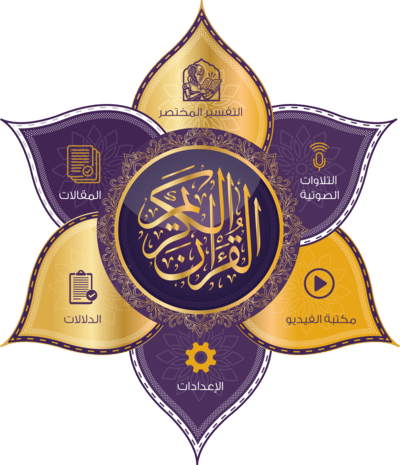
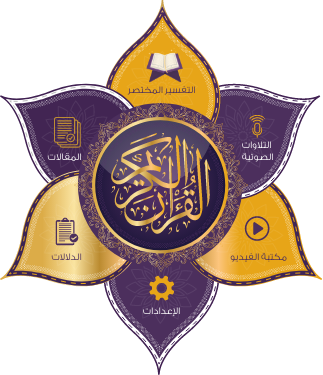
Refactor intro screen layout and navigation, streamline gesture handling, and clean up commented code

diff --git a/lib/ui/intro_screen.dart b/lib/ui/intro_screen.dart
@@ -3,13 +3,11 @@ import 'package:dlalat_quaran_new/controllers/similar_word_controller.dart';
 import 'package:dlalat_quaran_new/ui/add_research.dart';
 import 'package:dlalat_quaran_new/ui/articles_screen/articles_screen.dart';
 import 'package:dlalat_quaran_new/ui/chat/chat_screen.dart';
-import 'package:dlalat_quaran_new/ui/competition_screen.dart';
 import 'package:dlalat_quaran_new/ui/home_sura_screen.dart';
 import 'package:dlalat_quaran_new/ui/read_full_sura_screen/read_full_sura_screen.dart';
 import 'package:dlalat_quaran_new/ui/setting_screen.dart';
 import 'package:dlalat_quaran_new/ui/tags_screen/tags_screen.dart';
 import 'package:dlalat_quaran_new/ui/video_screen/videos_screen.dart';
-import 'package:dlalat_quaran_new/utils/assets.dart';
 import 'package:dlalat_quaran_new/utils/constants.dart';
 import 'package:dlalat_quaran_new/utils/text_styles.dart';
 import 'package:dlalat_quaran_new/widgets/splash_background.dart';
@@ -58,20 +56,12 @@ class _IntroScreenState extends State<IntroScreen> {
                     'app_name'.tr,
                     // '',
                     textAlign: TextAlign.center,
-                    style: TextStyle(
-                      color: Colors.white,
-                      fontSize: scHeight / 40,
-                      fontFamily: 'Almarai',
-                    ),
+                    style: TextStyle(color: Colors.white, fontSize: scHeight / 40, fontFamily: 'Almarai'),
                   ),
                   const SizedBox(height: 8),
                   Text(
                     'introText'.tr,
-                    style: TextStyle(
-                      color: const Color(0xFFF5B45E),
-                      fontSize: scHeight / 70,
-                      fontFamily: 'Almarai',
-                    ),
+                    style: TextStyle(color: const Color(0xFFF5B45E), fontSize: scHeight / 70, fontFamily: 'Almarai'),
                     textAlign: TextAlign.center,
                   ),
                   SizedBox(height: 70),
@@ -89,7 +79,8 @@ class _IntroScreenState extends State<IntroScreen> {
                             height: itemSize - 20,
                             child: GestureDetector(
                               onTap: () {
-                                Get.toNamed(ChatScreen.id);
+                                // Get.toNamed(ChatScreen.id);
+                                Get.toNamed(HomeSuraScreen.id);
                               },
                             ),
                           ),
@@ -120,9 +111,8 @@ class _IntroScreenState extends State<IntroScreen> {
                             child: GestureDetector(
                               // onTap: () => Get.to(const TagsScreen()),
                               onTap:
-                                  () => Navigator.of(
-                                    context,
-                                  ).push(MaterialPageRoute(builder: (_) => const TagsScreen())),
+                                  () =>
+                                      Navigator.of(context).push(MaterialPageRoute(builder: (_) => const TagsScreen())),
                             ),
                           ),
                         ),
@@ -136,9 +126,7 @@ class _IntroScreenState extends State<IntroScreen> {
                             child: GestureDetector(
                               // onTap: () => Get.to(SettingScreen()),
                               onTap:
-                                  () => Navigator.of(
-                                    context,
-                                  ).push(MaterialPageRoute(builder: (_) => SettingScreen())),
+                                  () => Navigator.of(context).push(MaterialPageRoute(builder: (_) => SettingScreen())),
                             ),
                           ),
                         ),
@@ -188,7 +176,7 @@ class _IntroScreenState extends State<IntroScreen> {
                             height: itemSize - 20,
                             child: GestureDetector(
                               onTap: () {
-                                Get.toNamed(HomeSuraScreen.id);
+                                // Get.toNamed(HomeSuraScreen.id);
                               },
                             ),
                           ),
@@ -217,20 +205,12 @@ class _IntroScreenState extends State<IntroScreen> {
                   'app_name'.tr,
                   // '',
                   textAlign: TextAlign.center,
-                  style: TextStyle(
-                    color: Colors.white,
-                    fontSize: scHeight / 40,
-                    fontFamily: 'Almarai',
-                  ),
+                  style: TextStyle(color: Colors.white, fontSize: scHeight / 40, fontFamily: 'Almarai'),
                 ),
                 const SizedBox(height: 8),
                 Text(
                   'introText'.tr,
-                  style: TextStyle(
-                    color: const Color(0xFFF5B45E),
-                    fontSize: scHeight / 70,
-                    fontFamily: 'Almarai',
-                  ),
+                  style: TextStyle(color: const Color(0xFFF5B45E), fontSize: scHeight / 70, fontFamily: 'Almarai'),
                   textAlign: TextAlign.center,
                 ),
                 SizedBox(height: scHeight / 20),
@@ -249,9 +229,7 @@ class _IntroScreenState extends State<IntroScreen> {
                           child: GestureDetector(
                             onTap: () {
                               int page =
-                                  GetStorage().read(savedPage).toString() == 'null'
-                                      ? 0
-                                      : GetStorage().read(savedPage);
+                                  GetStorage().read(savedPage).toString() == 'null' ? 0 : GetStorage().read(savedPage);
                               Locale loca = Get.locale!;
                               Widget destination;
                               if (loca.languageCode == 'ar') {
@@ -261,9 +239,7 @@ class _IntroScreenState extends State<IntroScreen> {
                               }
                               // ShortExplanationIndex();
                               // Get.to(() => destination);
-                              Navigator.of(
-                                context,
-                              ).push(MaterialPageRoute(builder: (_) => destination));
+                              Navigator.of(context).push(MaterialPageRoute(builder: (_) => destination));
                             },
                           ),
                         ),
@@ -279,9 +255,8 @@ class _IntroScreenState extends State<IntroScreen> {
                         child: GestureDetector(
                           // onTap: () => Get.to(const ArticlesScreen()),
                           onTap:
-                              () => Navigator.of(
-                                context,
-                              ).push(MaterialPageRoute(builder: (_) => const ArticlesScreen())),
+                              () =>
+                                  Navigator.of(context).push(MaterialPageRoute(builder: (_) => const ArticlesScreen())),
                         ),
                       ),
                     ),
@@ -295,9 +270,7 @@ class _IntroScreenState extends State<IntroScreen> {
                         child: GestureDetector(
                           // onTap: () => Get.to(const TagsScreen()),
                           onTap:
-                              () => Navigator.of(
-                                context,
-                              ).push(MaterialPageRoute(builder: (_) => const TagsScreen())),
+                              () => Navigator.of(context).push(MaterialPageRoute(builder: (_) => const TagsScreen())),
                         ),
                       ),
                     ),
@@ -312,10 +285,7 @@ class _IntroScreenState extends State<IntroScreen> {
                           height: 10.vh,
                           child: GestureDetector(
                             // onTap: () => Get.to(SettingScreen()),
-                            onTap:
-                                () => Navigator.of(
-                                  context,
-                                ).push(MaterialPageRoute(builder: (_) => SettingScreen())),
+                            onTap: () => Navigator.of(context).push(MaterialPageRoute(builder: (_) => SettingScreen())),
                           ),
                         ),
                       ),
@@ -346,9 +316,7 @@ class _IntroScreenState extends State<IntroScreen> {
                           // onTap: () => Get.to(VideoCategoriesScreen(), transition: Transition.fade),
                           // onTap: () => Get.to(const VideosScreen(), transition: Transition.fade),
                           onTap:
-                              () => Navigator.of(
-                                context,
-                              ).push(MaterialPageRoute(builder: (_) => const VideosScreen())),
+                              () => Navigator.of(context).push(MaterialPageRoute(builder: (_) => const VideosScreen())),
                         ),
                       ),
                     ),
@@ -375,25 +343,25 @@ class _IntroScreenState extends State<IntroScreen> {
   }
 
   String _centerView() {
-    // return 'assets/images/center_view.png';
-    String path = '';
-    switch (GetStorage().read(language)) {
-      case 'ar':
-        path = 'assets/images/center_view.png';
-        break;
-      case 'en':
-        path = 'assets/images/center_view_en.png';
-        break;
-      case 'fr':
-        path = 'assets/images/center_view.png';
-        break;
-      case 'es':
-        path = 'assets/images/center_view.png';
-        break;
-      default:
-        path = 'assets/images/center_view.png';
-    }
-    return path;
+    return 'assets/images/center_view.png';
+    // String path = '';
+    // switch (GetStorage().read(language)) {
+    //   case 'ar':
+    //     path = 'assets/images/center_view.png';
+    //     break;
+    //   case 'en':
+    //     path = 'assets/images/center_view_en.png';
+    //     break;
+    //   case 'fr':
+    //     path = 'assets/images/center_view.png';
+    //     break;
+    //   case 'es':
+    //     path = 'assets/images/center_view.png';
+    //     break;
+    //   default:
+    //     path = 'assets/images/center_view.png';
+    // }
+    // return path;
   }
 }
 
@@ -415,7 +383,8 @@ class QuestionAndResearchWidget extends StatelessWidget {
             children: [
               GestureDetector(
                 onTap: () {
-                  Get.toNamed(CompetitionsScreen.id);
+                  Get.toNamed(ChatScreen.id);
+                  // Get.toNamed(CompetitionsScreen.id);
                 },
                 child: Column(
                   children: [
@@ -423,8 +392,8 @@ class QuestionAndResearchWidget extends StatelessWidget {
                       height: 50,
                       width: 50,
                       alignment: Alignment.center,
-                      // child: Image.asset("assets/images/answer_icon.png", fit: BoxFit.cover),
-                      child: Image.asset(AssetsData.search, fit: BoxFit.cover),
+                      child: Image.asset("assets/images/answer_icon.png", fit: BoxFit.cover),
+                      // child: Image.asset(AssetsData.search, fit: BoxFit.cover),
                     ),
                     SizedBox(height: 5),
                     const ArabicText('أسئلة تحتاج الي اجابة', color: Colors.white, fontSize: 10),
